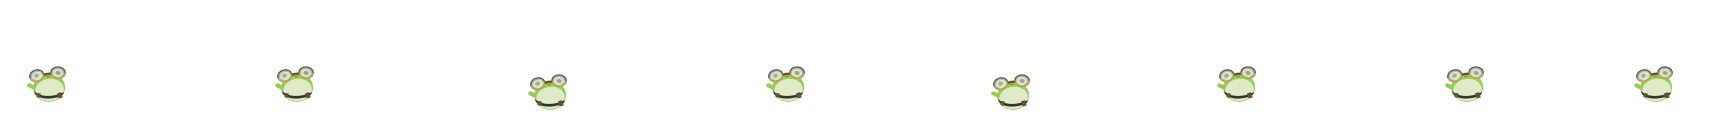
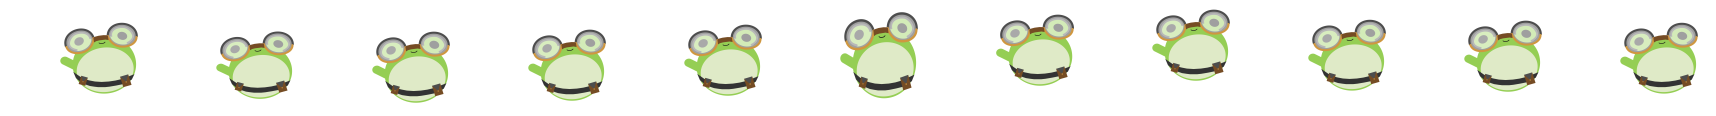
made frog animation 2.0

diff --git a/js/classes/Player.js b/js/classes/Player.js
@@ -1,6 +1,7 @@
 class Player extends Sprite {
     constructor({ collisionBlocks = [], imageSrc, frameRate, animations, loop}) {
-        super({imageSrc, frameRate, animations, loop})
+        super({imageSrc, frameRate, animations, loop
+        })
         this.position = {
             x: 200,
             y: 200,
